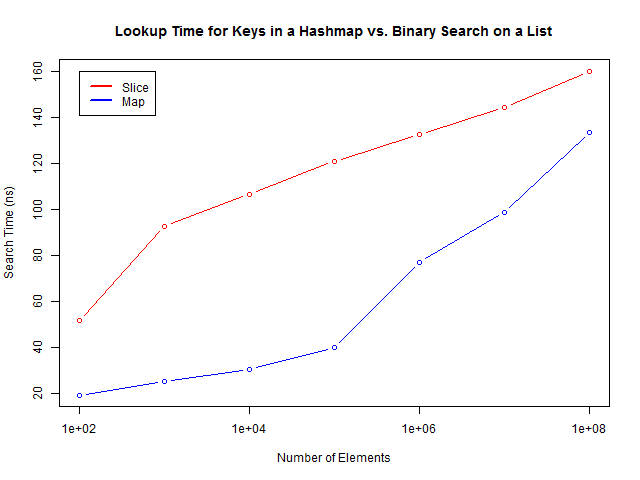
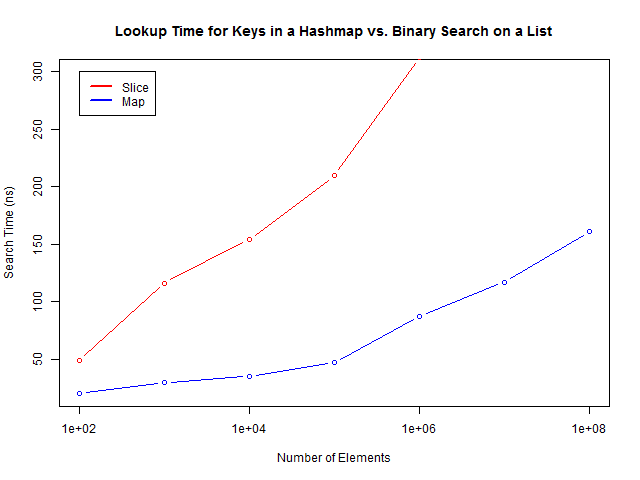
Scramble in an attempt to bust caches

diff --git a/no1_test.go b/no1_test.go
@@ -1,6 +1,7 @@
 package no1
 
 import (
+	"math/rand"
 	"runtime"
 	"testing"
 )
@@ -33,14 +34,28 @@ func TestMap(t *testing.T) {
 	testTester(genMap(max), max, t)
 }
 
+func shuffledRange(start, end int) []int {
+	s := make([]int, end-start)
+	for i := 0; start+i < end; i++ {
+		s[i] = i
+	}
+	for i := range s {
+		j := rand.Intn(i + 1)
+		s[i], s[j] = s[j], s[i]
+	}
+
+	return s
+}
+
 func benchmark(r tester, b *testing.B) {
 	runtime.GC()
 	max := r.max()
+	is := shuffledRange(0, max)
 	b.ResetTimer()
 
 	var has bool
 	for i := 0; i < b.N; i++ {
-		for i := 0; i < max; i++ {
+		for _, i := range is {
 			has = r.has(i)
 		}
 	}
